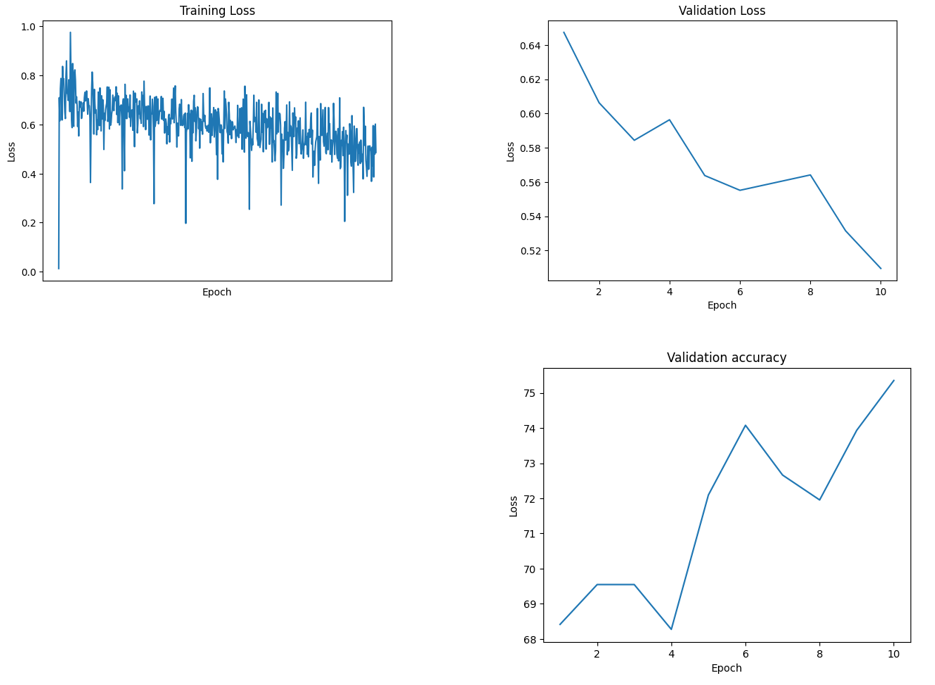
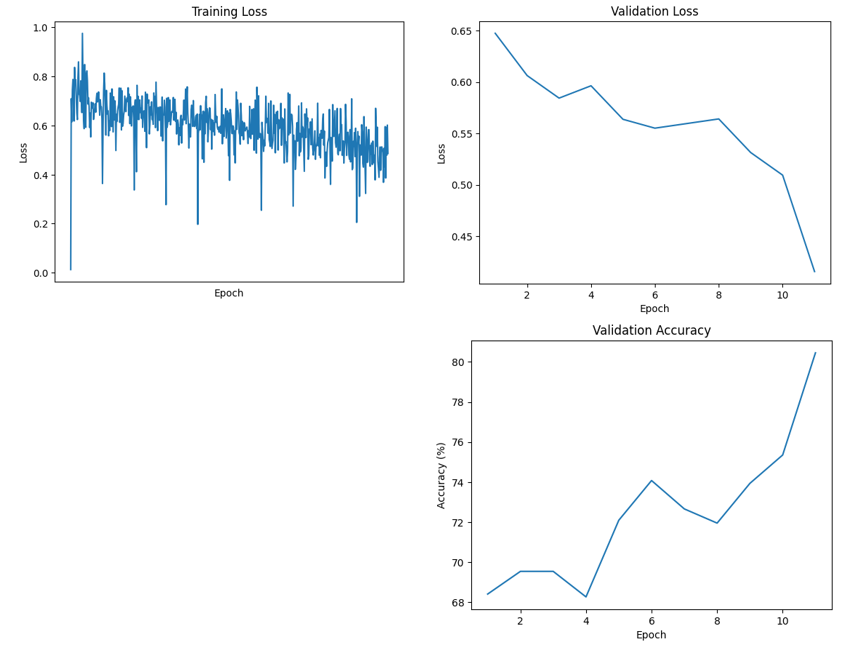
Update README

diff --git a/README.md b/README.md
@@ -25,13 +25,13 @@ Initially, I saved the feature vectors which the Swin Encoder derived from the p
 
 ## Results
 
-After training for 10 epochs over the training data, the model reached a classification accuracy of 80.5% over the validation set. 
+After training for 12 epochs over the training data, the model reached a classification accuracy of 80.5% over the validation set. 
 
 The train loss and validation accuracy are plotted in figure 3.
 
 __Figure 3__
 
-![Figure 3](https://raw.githubusercontent.com/larsleijten/swin_classifier/main/imgs/results%201-10.png "Figure 3")
+![Figure 3](https://raw.githubusercontent.com/larsleijten/swin_classifier/main/imgs/results%201-12.png "Figure 3")
 
 Although model performance was not the main purpose of this project, the current result is still somewhat underwhelming. I will try to make a few adaptations in the upcoming days to increase model performance. These adaptations include tackling the exploding gradient problem I ran into and adding some data augmentations.
 
